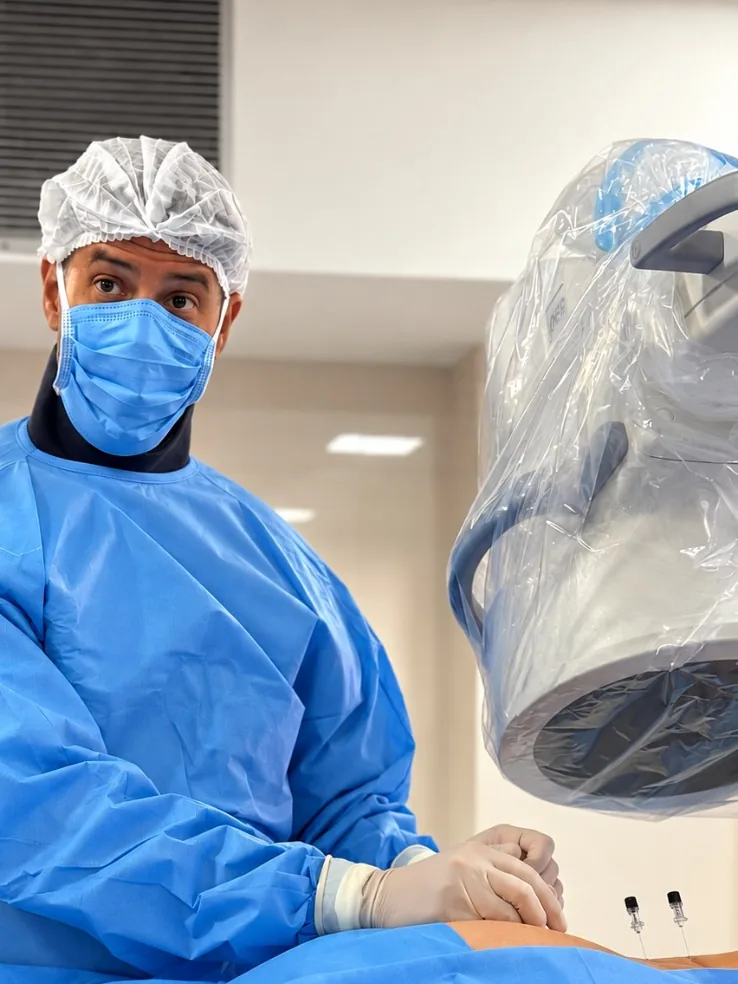
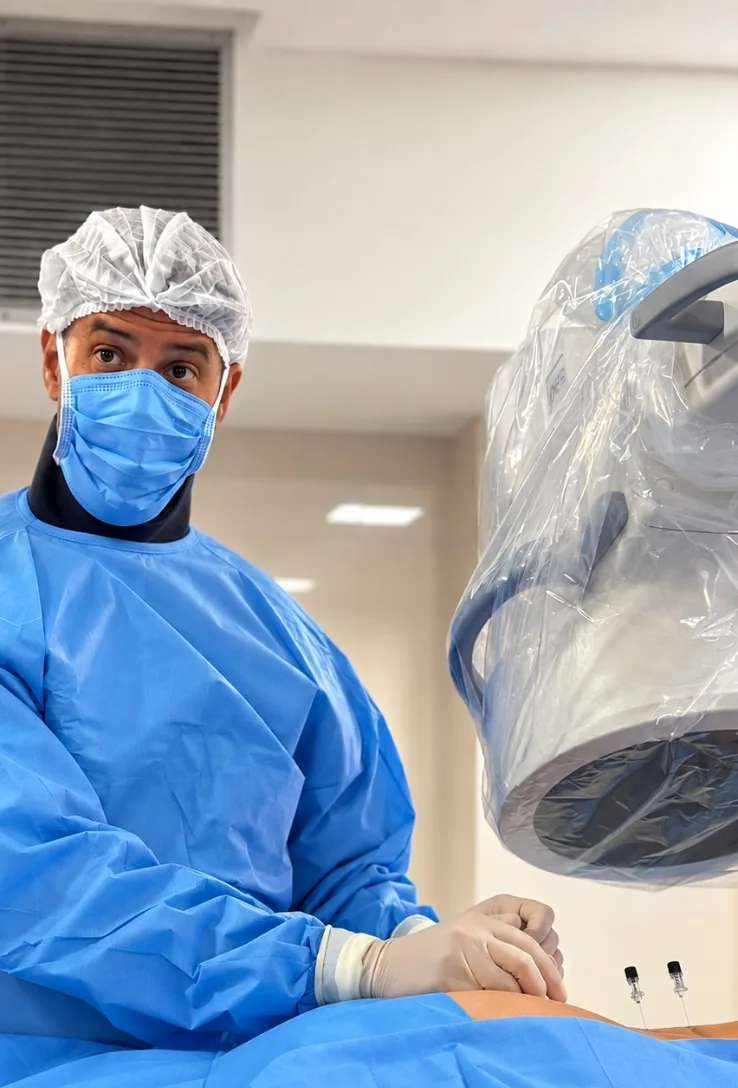
feat(img): abre o enquadramento da foto de procedimento
Recorte agora vai de 3:4 para 738x1088, mostrando o arco em C inteiro, o
teto e o campo cirurgico com as agulhas. Como a foto so tem 738px de
largura, o object-fit: cover comeria o ganho no box antigo — por isso o
.procedure-photo img sobe de 510/560px para 560/620px no desktop e de
390/500px para 420/540px no mobile.

diff --git a/assets/site.css b/assets/site.css
@@ -1,1 +1,1 @@
-:root{--navy:#062544;--deep:#03192f;--gold:#e2a34e;--paper:#fffdf9;--ink:#0b3158;--muted:#61738a;--line:#dbe3ea}*{box-sizing:border-box}html{scroll-behavior:smooth}body{margin:0;background:var(--paper);color:var(--ink);font-family:"DM Sans",Arial,sans-serif}.container{width:min(1120px,calc(100% - 72px));margin:auto}h1,h2{font-family:"Libre Baskerville",Georgia,serif;font-weight:400;letter-spacing:-.04em}h2{font-size:clamp(1.9rem,3vw,3rem);line-height:1.16}.topbar{height:74px;background:#fff;border-bottom:1px solid var(--line)}.nav{height:100%;display:flex;align-items:center;gap:28px}.brand{margin-right:auto}.brand img{display:block;width:250px}.menu{display:flex;gap:25px}.menu a{color:var(--ink);font-size:.76rem;font-weight:700;text-decoration:none}.button{display:inline-flex;align-items:center;justify-content:center;min-height:42px;padding:0 18px;border:1px solid var(--gold);border-radius:4px;background:var(--gold);color:#fff;font-size:.73rem;font-weight:700;text-decoration:none;text-transform:uppercase}.button-outline{background:transparent}.eyebrow{margin:0 0 13px;color:var(--gold);font-size:.69rem;font-weight:700;letter-spacing:.16em;text-transform:uppercase}.hero{overflow:hidden;background:linear-gradient(100deg,var(--deep),var(--navy));color:#fff}.hero-grid{display:grid;grid-template-columns:1fr 46%;min-height:500px;align-items:end}.hero-copy{padding:52px 25px 44px 0}.hero h1{max-width:590px;margin:0;font-size:clamp(2.35rem,4vw,3.8rem);line-height:1.1}.hero h1 em,.treatments h2 em,footer em{color:var(--gold);font-style:normal}.hero-copy>p:not(.eyebrow):not(.credentials){max-width:510px;margin:18px 0;color:#d4e0ea;font-size:.96rem;line-height:1.65}.hero-actions{display:flex;gap:13px}.credentials{margin:20px 0 0!important;color:#dce5eb!important;font-size:.74rem}.credentials span{margin:0 9px;color:var(--gold)}.hero-photo{margin:0;align-self:stretch}.hero-photo img{display:block;width:100%;height:100%;object-fit:cover;object-position:center 33%}.about,.treatments,.locations{padding:76px 0}.split-about{display:grid;grid-template-columns:38% 1fr;gap:62px;align-items:center}.split-about figure{position:relative;margin:0}.split-about figure:after{position:absolute;right:-14px;bottom:-14px;width:78%;height:75%;border:1px solid var(--gold);content:""}.split-about img{position:relative;z-index:1;display:block;width:100%;max-height:510px;aspect-ratio:3/4;object-fit:cover}.split-about p:not(.eyebrow){color:var(--muted);font-size:.94rem;line-height:1.75}.credentials-list{margin:24px 0 0;padding:0;list-style:none;border-top:1px solid var(--line)}.credentials-list li{padding:12px 0;border-bottom:1px solid var(--line);font-size:.84rem;line-height:1.4}.treatments{background:#fff}.treatments-layout{display:grid;grid-template-columns:39% 1fr;gap:40px}.procedure-photo{margin:0}.procedure-photo img{display:block;width:100%;height:100%;min-height:510px;max-height:560px;object-fit:cover}.treatments h2{margin:0}.section-intro{color:var(--muted);font-size:.94rem;line-height:1.65}.treatment-grid{display:grid;grid-template-columns:repeat(4,1fr);border-top:1px solid var(--line);border-left:1px solid var(--line)}.treatment-grid article{min-height:165px;padding:16px 14px;border-right:1px solid var(--line);border-bottom:1px solid var(--line)}.treatment-grid b{color:var(--gold);font-size:.7rem}.treatment-grid h3{margin:10px 0 8px;font-size:.76rem;line-height:1.25;text-transform:uppercase}.treatment-grid p{margin:0;color:var(--muted);font-size:.71rem;line-height:1.48}.treatments-link{color:var(--muted);font-size:.8rem}.care{padding:68px 0;background:#fbf7f0}.care-grid{display:grid;grid-template-columns:40% 1fr;gap:62px;align-items:center}.care h2{margin:0}.care-lede{font-size:1.02rem;line-height:1.65}.care-points{display:grid;grid-template-columns:repeat(3,1fr);gap:18px}.care-points article{padding-left:16px;border-left:2px solid var(--gold)}.care-points h3{margin:0 0 7px;font-size:.88rem}.care-points p{margin:0;color:var(--muted);font-size:.78rem;line-height:1.5}.plans{padding:72px 0;text-align:center}.plans h2{margin:0}.plan-logos{display:grid;grid-template-columns:repeat(6,1fr);margin:30px 0 18px;border-top:1px solid var(--line);border-bottom:1px solid var(--line)}.plan-logos span{display:grid;min-height:68px;place-items:center;border-right:1px solid var(--line);font-size:.88rem;font-weight:700}.plan-logos span:last-child{border:0}.all-plans{display:inline-flex;flex-direction:column;padding:10px 16px;border:1px solid var(--gold);color:var(--ink);font-size:.8rem;font-weight:700;text-decoration:none}.all-plans small{color:var(--gold);text-transform:uppercase}.coverage-note{max-width:740px;margin:20px auto 0;color:var(--muted);font-size:.78rem;line-height:1.55}.locations{background:#f7f9fb}.locations h2{margin:0 0 32px}.clinic-list{display:grid;grid-template-columns:repeat(2,1fr);gap:20px}.clinic{overflow:hidden;background:#fff;border:1px solid var(--line);box-shadow:0 8px 26px rgba(6,37,68,.07)}.clinic>img{display:block;width:100%;height:145px;object-fit:cover}.clinic>div{padding:18px}.clinic-area{margin:0;color:var(--gold);font-size:.68rem;font-weight:700;letter-spacing:.12em;text-transform:uppercase}.clinic h3{margin:8px 0;color:var(--ink);font-size:1rem}.clinic h3+p{min-height:45px;margin:0;color:var(--muted);font-size:.8rem;line-height:1.5}.clinic-actions{display:flex;justify-content:space-between;gap:15px;margin-top:18px}.clinic-actions a{color:var(--ink);font-size:.76rem;font-weight:700;text-decoration:none}.clinic-actions a:last-child{color:var(--muted)}.clinic-actions b{color:var(--gold);font-size:1.1rem}.reviews{padding:60px 0;text-align:center}.reviews h2{margin:0}.reviews-note{margin:18px auto;color:var(--muted);font-size:.9rem}footer{position:relative;isolation:isolate;overflow:hidden;padding:62px 0 24px;background:var(--deep);color:#fff}footer:before{position:absolute;z-index:-2;inset:0 0 0 auto;width:52%;content:"";background:linear-gradient(90deg,var(--deep),rgba(3,25,47,.72)),url("../img/dr-pedro-henrique-consulta-tratada.png") center 42%/cover no-repeat;filter:blur(2px);transform:scale(1.03)}footer:after{position:absolute;z-index:-1;inset:0;background:linear-gradient(90deg,rgba(3,25,47,.96),rgba(3,25,47,.85) 48%,rgba(3,25,47,.25))}.footer-grid{display:grid;grid-template-columns:1fr 200px;gap:20px;align-items:center}.footer-grid h2{margin:0}.footer-grid p{max-width:520px;color:#d1dce7;font-size:.94rem;line-height:1.65}.disabled{opacity:.62;cursor:not-allowed}.footer-mark{width:200px;justify-self:end}.copyright{grid-column:1/-1;margin:8px 0 0!important;font-size:.72rem}@media(max-width:900px){.container{width:min(100% - 40px,1120px)}.hero-grid,.split-about,.treatments-layout,.care-grid{grid-template-columns:1fr;gap:35px}.hero-photo{height:430px}.hero-copy{padding:60px 0 34px}.procedure-photo img{min-height:390px;max-height:500px}.plan-logos{grid-template-columns:repeat(3,1fr)}.care-points{grid-template-columns:1fr}.footer-grid{grid-template-columns:1fr}.footer-mark{justify-self:start}footer:before{width:100%;opacity:.5}footer:after{background:rgba(3,25,47,.8)}}@media(max-width:640px){.topbar{height:68px}.brand img{width:190px}.menu{display:none}.nav{gap:10px}.nav>.button{min-height:35px;padding:0 10px;font-size:.6rem}.container{width:min(100% - 28px,1120px)}.about,.treatments,.locations,.plans,.care{padding:60px 0}.treatment-grid{grid-template-columns:repeat(2,1fr)}.treatment-grid article{min-height:165px}.clinic-list{grid-template-columns:1fr}.plan-logos span{min-height:62px;font-size:.76rem}.footer-mark{width:170px}.hero-photo{height:360px}.clinic h3+p{min-height:0}}
+:root{--navy:#062544;--deep:#03192f;--gold:#e2a34e;--paper:#fffdf9;--ink:#0b3158;--muted:#61738a;--line:#dbe3ea}*{box-sizing:border-box}html{scroll-behavior:smooth}body{margin:0;background:var(--paper);color:var(--ink);font-family:"DM Sans",Arial,sans-serif}.container{width:min(1120px,calc(100% - 72px));margin:auto}h1,h2{font-family:"Libre Baskerville",Georgia,serif;font-weight:400;letter-spacing:-.04em}h2{font-size:clamp(1.9rem,3vw,3rem);line-height:1.16}.topbar{height:74px;background:#fff;border-bottom:1px solid var(--line)}.nav{height:100%;display:flex;align-items:center;gap:28px}.brand{margin-right:auto}.brand img{display:block;width:250px}.menu{display:flex;gap:25px}.menu a{color:var(--ink);font-size:.76rem;font-weight:700;text-decoration:none}.button{display:inline-flex;align-items:center;justify-content:center;min-height:42px;padding:0 18px;border:1px solid var(--gold);border-radius:4px;background:var(--gold);color:#fff;font-size:.73rem;font-weight:700;text-decoration:none;text-transform:uppercase}.button-outline{background:transparent}.eyebrow{margin:0 0 13px;color:var(--gold);font-size:.69rem;font-weight:700;letter-spacing:.16em;text-transform:uppercase}.hero{overflow:hidden;background:linear-gradient(100deg,var(--deep),var(--navy));color:#fff}.hero-grid{display:grid;grid-template-columns:1fr 46%;min-height:500px;align-items:end}.hero-copy{padding:52px 25px 44px 0}.hero h1{max-width:590px;margin:0;font-size:clamp(2.35rem,4vw,3.8rem);line-height:1.1}.hero h1 em,.treatments h2 em,footer em{color:var(--gold);font-style:normal}.hero-copy>p:not(.eyebrow):not(.credentials){max-width:510px;margin:18px 0;color:#d4e0ea;font-size:.96rem;line-height:1.65}.hero-actions{display:flex;gap:13px}.credentials{margin:20px 0 0!important;color:#dce5eb!important;font-size:.74rem}.credentials span{margin:0 9px;color:var(--gold)}.hero-photo{margin:0;align-self:stretch}.hero-photo img{display:block;width:100%;height:100%;object-fit:cover;object-position:center 33%}.about,.treatments,.locations{padding:76px 0}.split-about{display:grid;grid-template-columns:38% 1fr;gap:62px;align-items:center}.split-about figure{position:relative;margin:0}.split-about figure:after{position:absolute;right:-14px;bottom:-14px;width:78%;height:75%;border:1px solid var(--gold);content:""}.split-about img{position:relative;z-index:1;display:block;width:100%;max-height:510px;aspect-ratio:3/4;object-fit:cover}.split-about p:not(.eyebrow){color:var(--muted);font-size:.94rem;line-height:1.75}.credentials-list{margin:24px 0 0;padding:0;list-style:none;border-top:1px solid var(--line)}.credentials-list li{padding:12px 0;border-bottom:1px solid var(--line);font-size:.84rem;line-height:1.4}.treatments{background:#fff}.treatments-layout{display:grid;grid-template-columns:39% 1fr;gap:40px}.procedure-photo{margin:0}.procedure-photo img{display:block;width:100%;height:100%;min-height:560px;max-height:620px;object-fit:cover}.treatments h2{margin:0}.section-intro{color:var(--muted);font-size:.94rem;line-height:1.65}.treatment-grid{display:grid;grid-template-columns:repeat(4,1fr);border-top:1px solid var(--line);border-left:1px solid var(--line)}.treatment-grid article{min-height:165px;padding:16px 14px;border-right:1px solid var(--line);border-bottom:1px solid var(--line)}.treatment-grid b{color:var(--gold);font-size:.7rem}.treatment-grid h3{margin:10px 0 8px;font-size:.76rem;line-height:1.25;text-transform:uppercase}.treatment-grid p{margin:0;color:var(--muted);font-size:.71rem;line-height:1.48}.treatments-link{color:var(--muted);font-size:.8rem}.care{padding:68px 0;background:#fbf7f0}.care-grid{display:grid;grid-template-columns:40% 1fr;gap:62px;align-items:center}.care h2{margin:0}.care-lede{font-size:1.02rem;line-height:1.65}.care-points{display:grid;grid-template-columns:repeat(3,1fr);gap:18px}.care-points article{padding-left:16px;border-left:2px solid var(--gold)}.care-points h3{margin:0 0 7px;font-size:.88rem}.care-points p{margin:0;color:var(--muted);font-size:.78rem;line-height:1.5}.plans{padding:72px 0;text-align:center}.plans h2{margin:0}.plan-logos{display:grid;grid-template-columns:repeat(6,1fr);margin:30px 0 18px;border-top:1px solid var(--line);border-bottom:1px solid var(--line)}.plan-logos span{display:grid;min-height:68px;place-items:center;border-right:1px solid var(--line);font-size:.88rem;font-weight:700}.plan-logos span:last-child{border:0}.all-plans{display:inline-flex;flex-direction:column;padding:10px 16px;border:1px solid var(--gold);color:var(--ink);font-size:.8rem;font-weight:700;text-decoration:none}.all-plans small{color:var(--gold);text-transform:uppercase}.coverage-note{max-width:740px;margin:20px auto 0;color:var(--muted);font-size:.78rem;line-height:1.55}.locations{background:#f7f9fb}.locations h2{margin:0 0 32px}.clinic-list{display:grid;grid-template-columns:repeat(2,1fr);gap:20px}.clinic{overflow:hidden;background:#fff;border:1px solid var(--line);box-shadow:0 8px 26px rgba(6,37,68,.07)}.clinic>img{display:block;width:100%;height:145px;object-fit:cover}.clinic>div{padding:18px}.clinic-area{margin:0;color:var(--gold);font-size:.68rem;font-weight:700;letter-spacing:.12em;text-transform:uppercase}.clinic h3{margin:8px 0;color:var(--ink);font-size:1rem}.clinic h3+p{min-height:45px;margin:0;color:var(--muted);font-size:.8rem;line-height:1.5}.clinic-actions{display:flex;justify-content:space-between;gap:15px;margin-top:18px}.clinic-actions a{color:var(--ink);font-size:.76rem;font-weight:700;text-decoration:none}.clinic-actions a:last-child{color:var(--muted)}.clinic-actions b{color:var(--gold);font-size:1.1rem}.reviews{padding:60px 0;text-align:center}.reviews h2{margin:0}.reviews-note{margin:18px auto;color:var(--muted);font-size:.9rem}footer{position:relative;isolation:isolate;overflow:hidden;padding:62px 0 24px;background:var(--deep);color:#fff}footer:before{position:absolute;z-index:-2;inset:0 0 0 auto;width:52%;content:"";background:linear-gradient(90deg,var(--deep),rgba(3,25,47,.72)),url("../img/dr-pedro-henrique-consulta-tratada.png") center 42%/cover no-repeat;filter:blur(2px);transform:scale(1.03)}footer:after{position:absolute;z-index:-1;inset:0;background:linear-gradient(90deg,rgba(3,25,47,.96),rgba(3,25,47,.85) 48%,rgba(3,25,47,.25))}.footer-grid{display:grid;grid-template-columns:1fr 200px;gap:20px;align-items:center}.footer-grid h2{margin:0}.footer-grid p{max-width:520px;color:#d1dce7;font-size:.94rem;line-height:1.65}.disabled{opacity:.62;cursor:not-allowed}.footer-mark{width:200px;justify-self:end}.copyright{grid-column:1/-1;margin:8px 0 0!important;font-size:.72rem}@media(max-width:900px){.container{width:min(100% - 40px,1120px)}.hero-grid,.split-about,.treatments-layout,.care-grid{grid-template-columns:1fr;gap:35px}.hero-photo{height:430px}.hero-copy{padding:60px 0 34px}.procedure-photo img{min-height:420px;max-height:540px}.plan-logos{grid-template-columns:repeat(3,1fr)}.care-points{grid-template-columns:1fr}.footer-grid{grid-template-columns:1fr}.footer-mark{justify-self:start}footer:before{width:100%;opacity:.5}footer:after{background:rgba(3,25,47,.8)}}@media(max-width:640px){.topbar{height:68px}.brand img{width:190px}.menu{display:none}.nav{gap:10px}.nav>.button{min-height:35px;padding:0 10px;font-size:.6rem}.container{width:min(100% - 28px,1120px)}.about,.treatments,.locations,.plans,.care{padding:60px 0}.treatment-grid{grid-template-columns:repeat(2,1fr)}.treatment-grid article{min-height:165px}.clinic-list{grid-template-columns:1fr}.plan-logos span{min-height:62px;font-size:.76rem}.footer-mark{width:170px}.hero-photo{height:360px}.clinic h3+p{min-height:0}}
